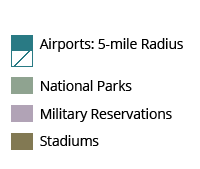
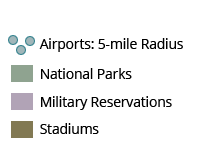
new legends and fix mobile legends

Changed region(s): [[0.03, 0.1863, 0.93, 0.6211], [0.03, 0.5901, 0.87, 0.9006]]

diff --git a/src/index.html b/src/index.html
@@ -345,6 +345,7 @@
 					 * Custom Javascript to be executed when the application is ready goes here
 					 */
 					setTimeout(function(){
+						$('.legend .content').append('<img class="legend-img" src="resources/legends/DroneLegendMap' + 0 + '.png" alt="Legend">');
 						$('.legendMobile').append('<img class="legend-img" src="resources/legends/DroneLegendMap' + 0 + '.png" alt="Legend">');
 					},1000);
 				});
@@ -352,12 +353,6 @@
 				topic.subscribe("story-load-entry", function(index){
 					$('.legend-img').remove();
 					$('.legend .content, .legendMobile').append('<img class="legend-img" src="resources/legends/DroneLegendMap' + index + '.png" alt="Legend">');
-			  });
-
-				topic.subscribe("story-loaded-map", function(result){
-			    if ( result.index == 0 && $('.legend-img').length < 1 ){
-						$('.legend .content').append('<img class="legend-img" src="resources/legends/DroneLegendMap' + result.index + '.png" alt="Legend">');
-					}
 			  });
 
 			});
